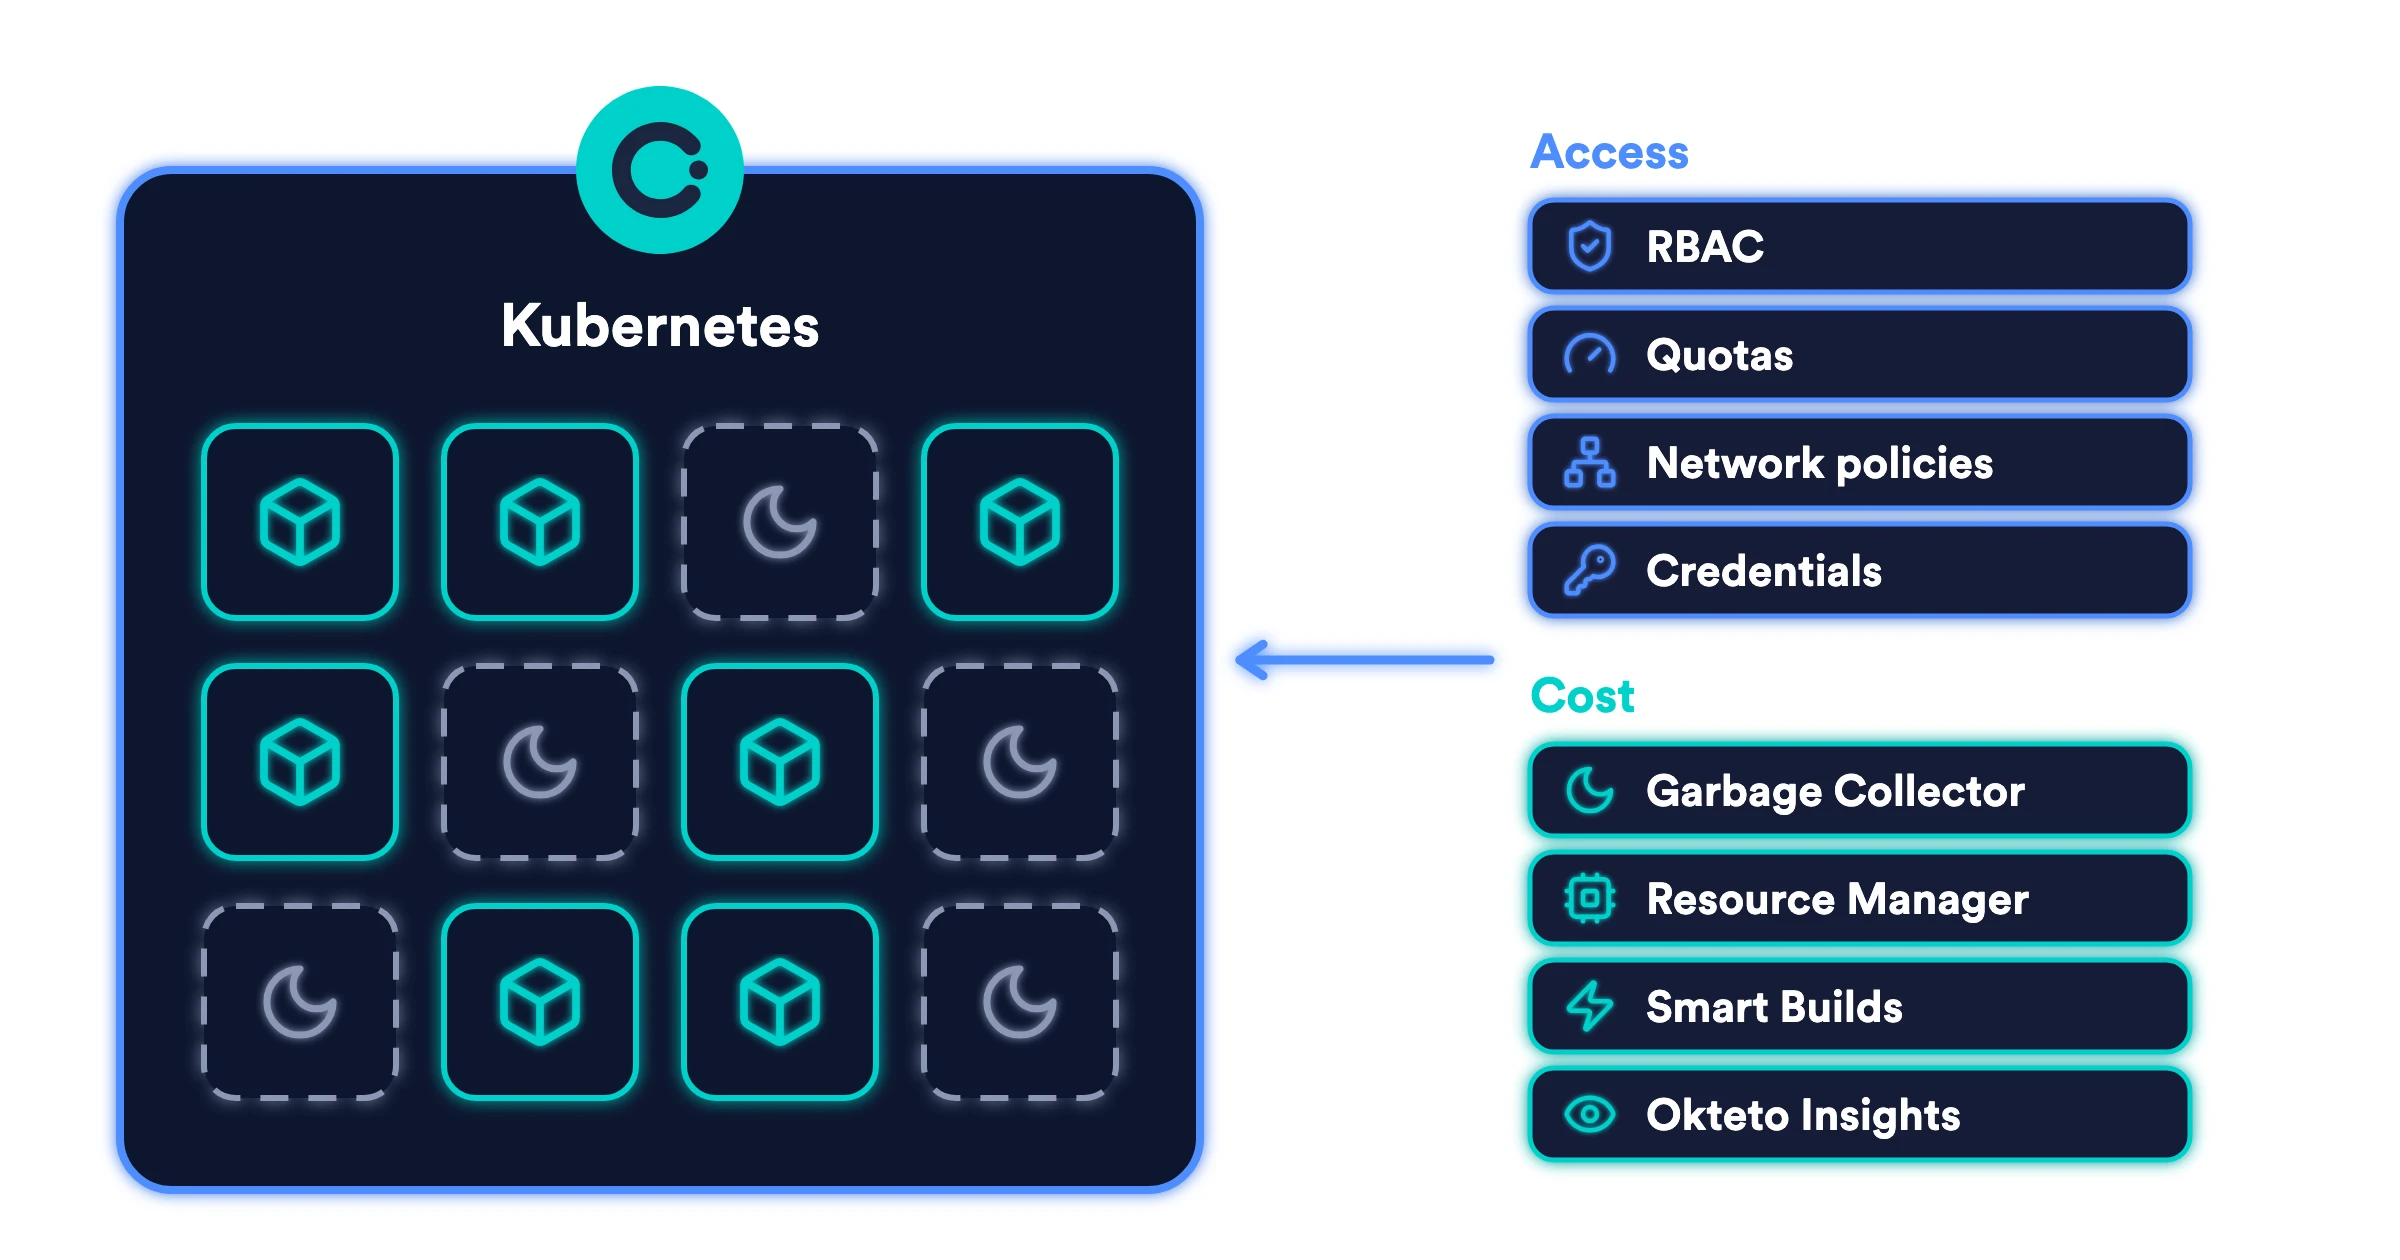
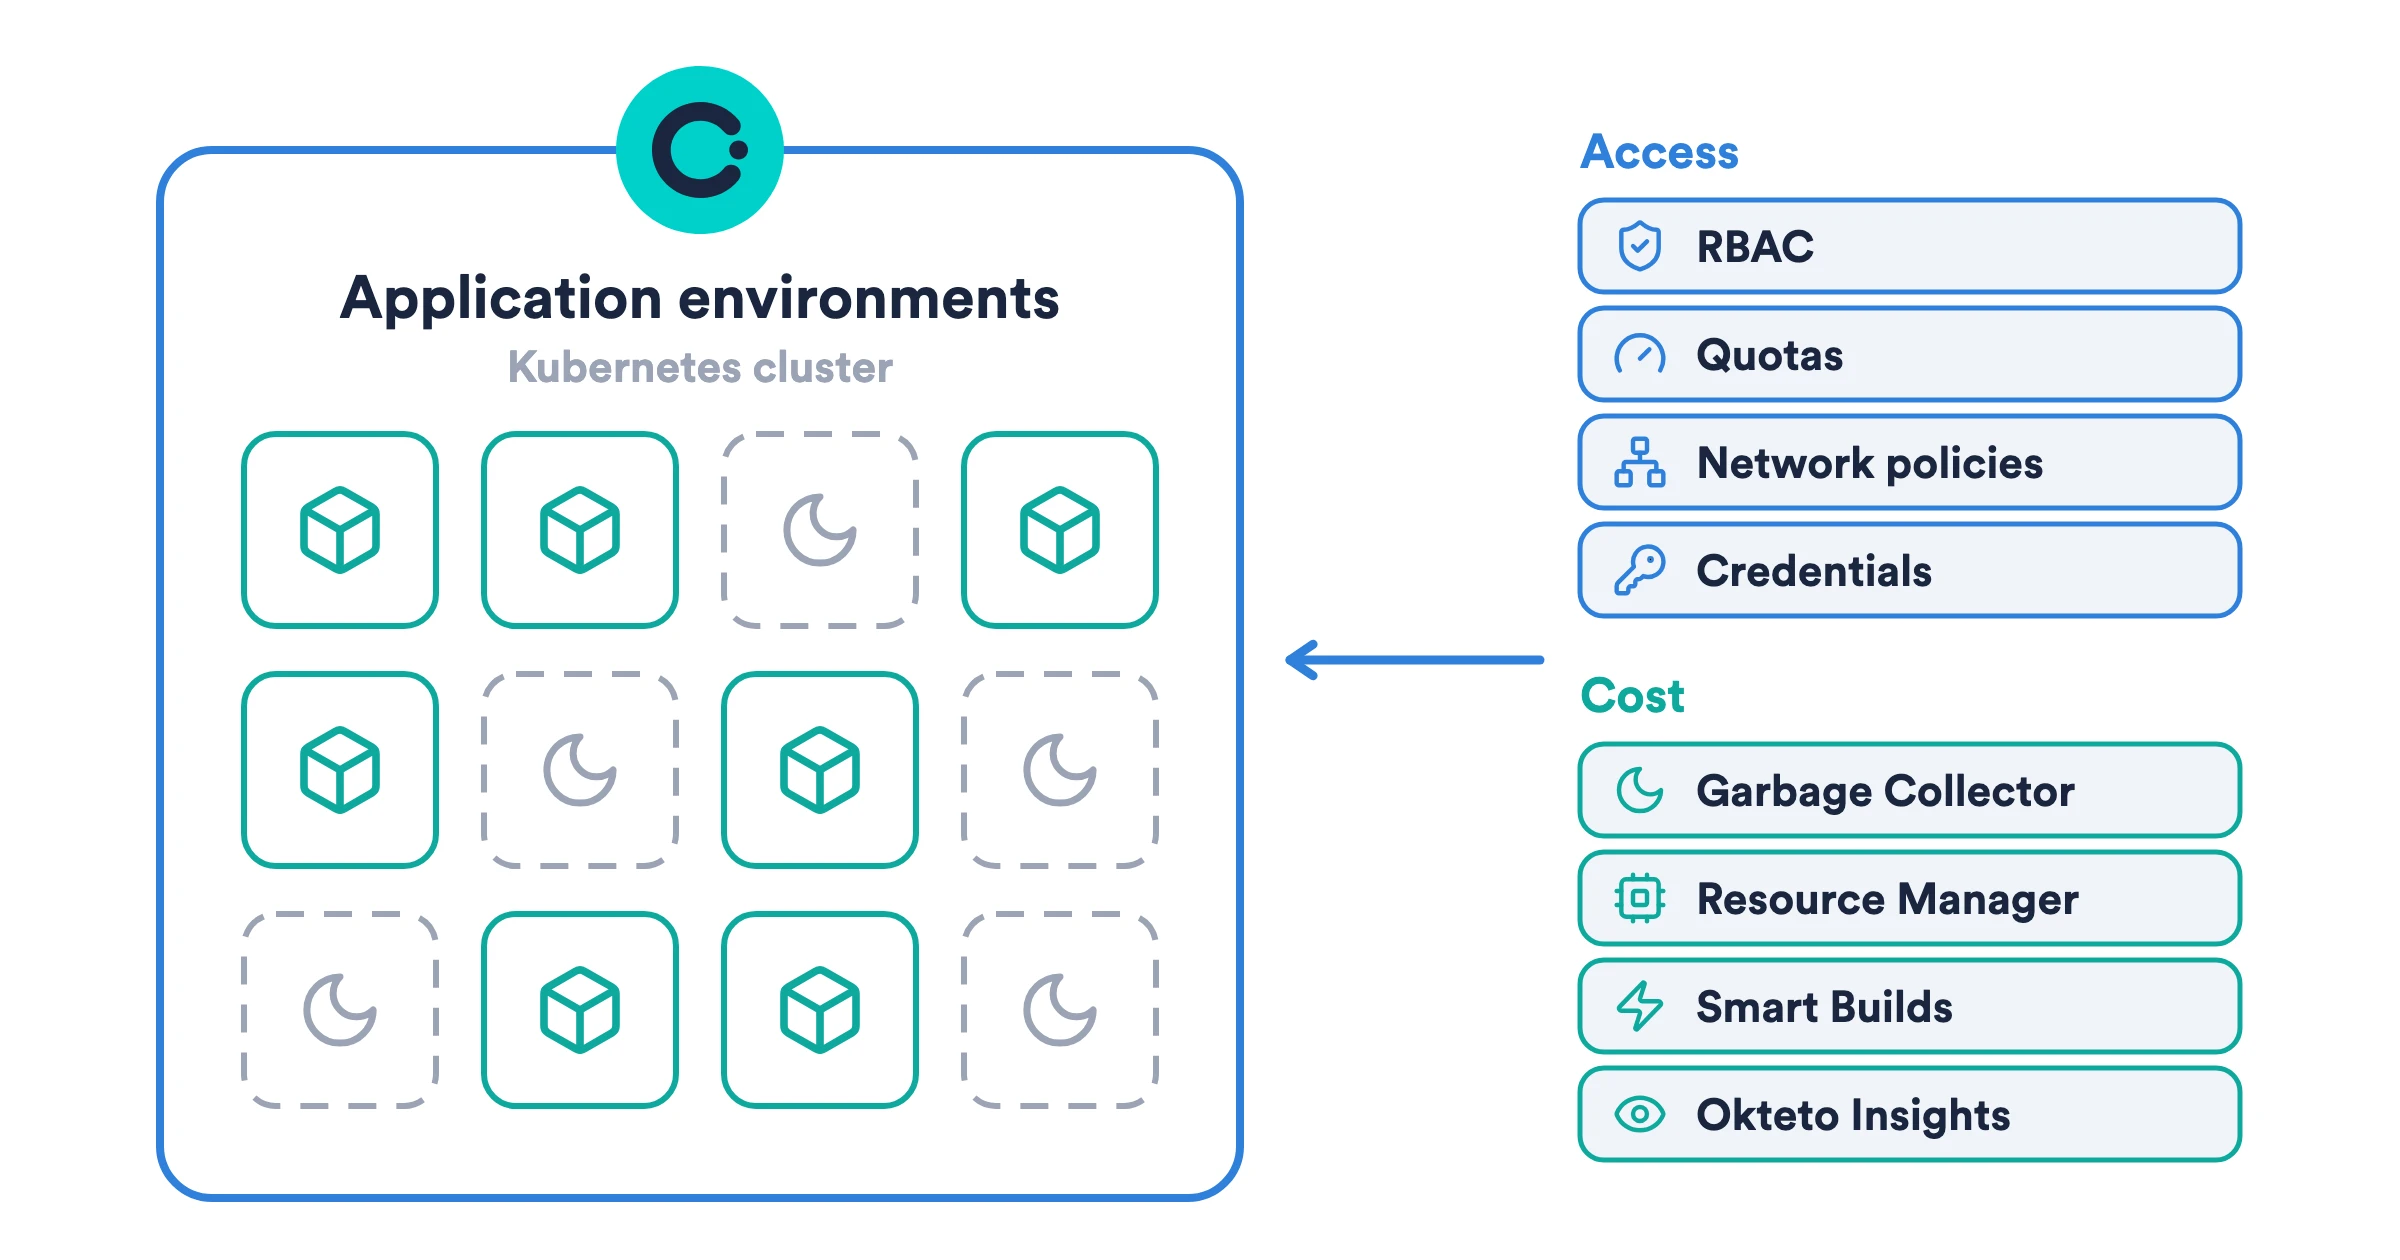
Docs home: clearer framing, natural wording, and diagrams in the light style of the docs
- The page opens with what an application environment is, explains the
  concept (definition, ephemeral, value for testing, coding agents, full
  replica and Divert), then the governance and cost controls for platform
  teams, and the next steps.
- The hero and the governance diagrams are redrawn in the light style of
  the docs, without dark boxes. The okteto.com image goes away.
- AGENTS.md: diagrams of the docs use the light theme.

diff --git a/AGENTS.md b/AGENTS.md
@@ -107,6 +107,8 @@ Images inside a page (a blog post, a tutorial, or a docs page) have a white back
 
 Diagrams in the docs share these shapes. The `deploy-movies-app` and `environment-workflow` entries of `scripts/covers/covers.mjs` are the reference:
 
+- **Light theme:** white background, white or light gray fills, and colored outlines. No dark boxes and no glow: don't set `theme: 'neon'` on a diagram of the docs.
+
 - **An application environment** is a blue box with the Kubernetes mark on the middle of its top edge, the title "Application environment" and "Okteto Namespace" under it, and its services as stacked rows: a line icon (`box` for a service, `database` for a database or a queue) and the name. The rows are narrower than the box and centered in it.
 - **A person or an agent** is a circle with a line icon and the label under it: `user` for a developer, `bot` for a coding agent.
 - **An endpoint** (a URL, a path such as `/api`) is a pill: a rounded box whose radius is half its height. Pills that lead into an environment sit on its border, with the same height, and end at the same point inside it. A long URL can go down to 18px so its pill doesn't take the whole width.
